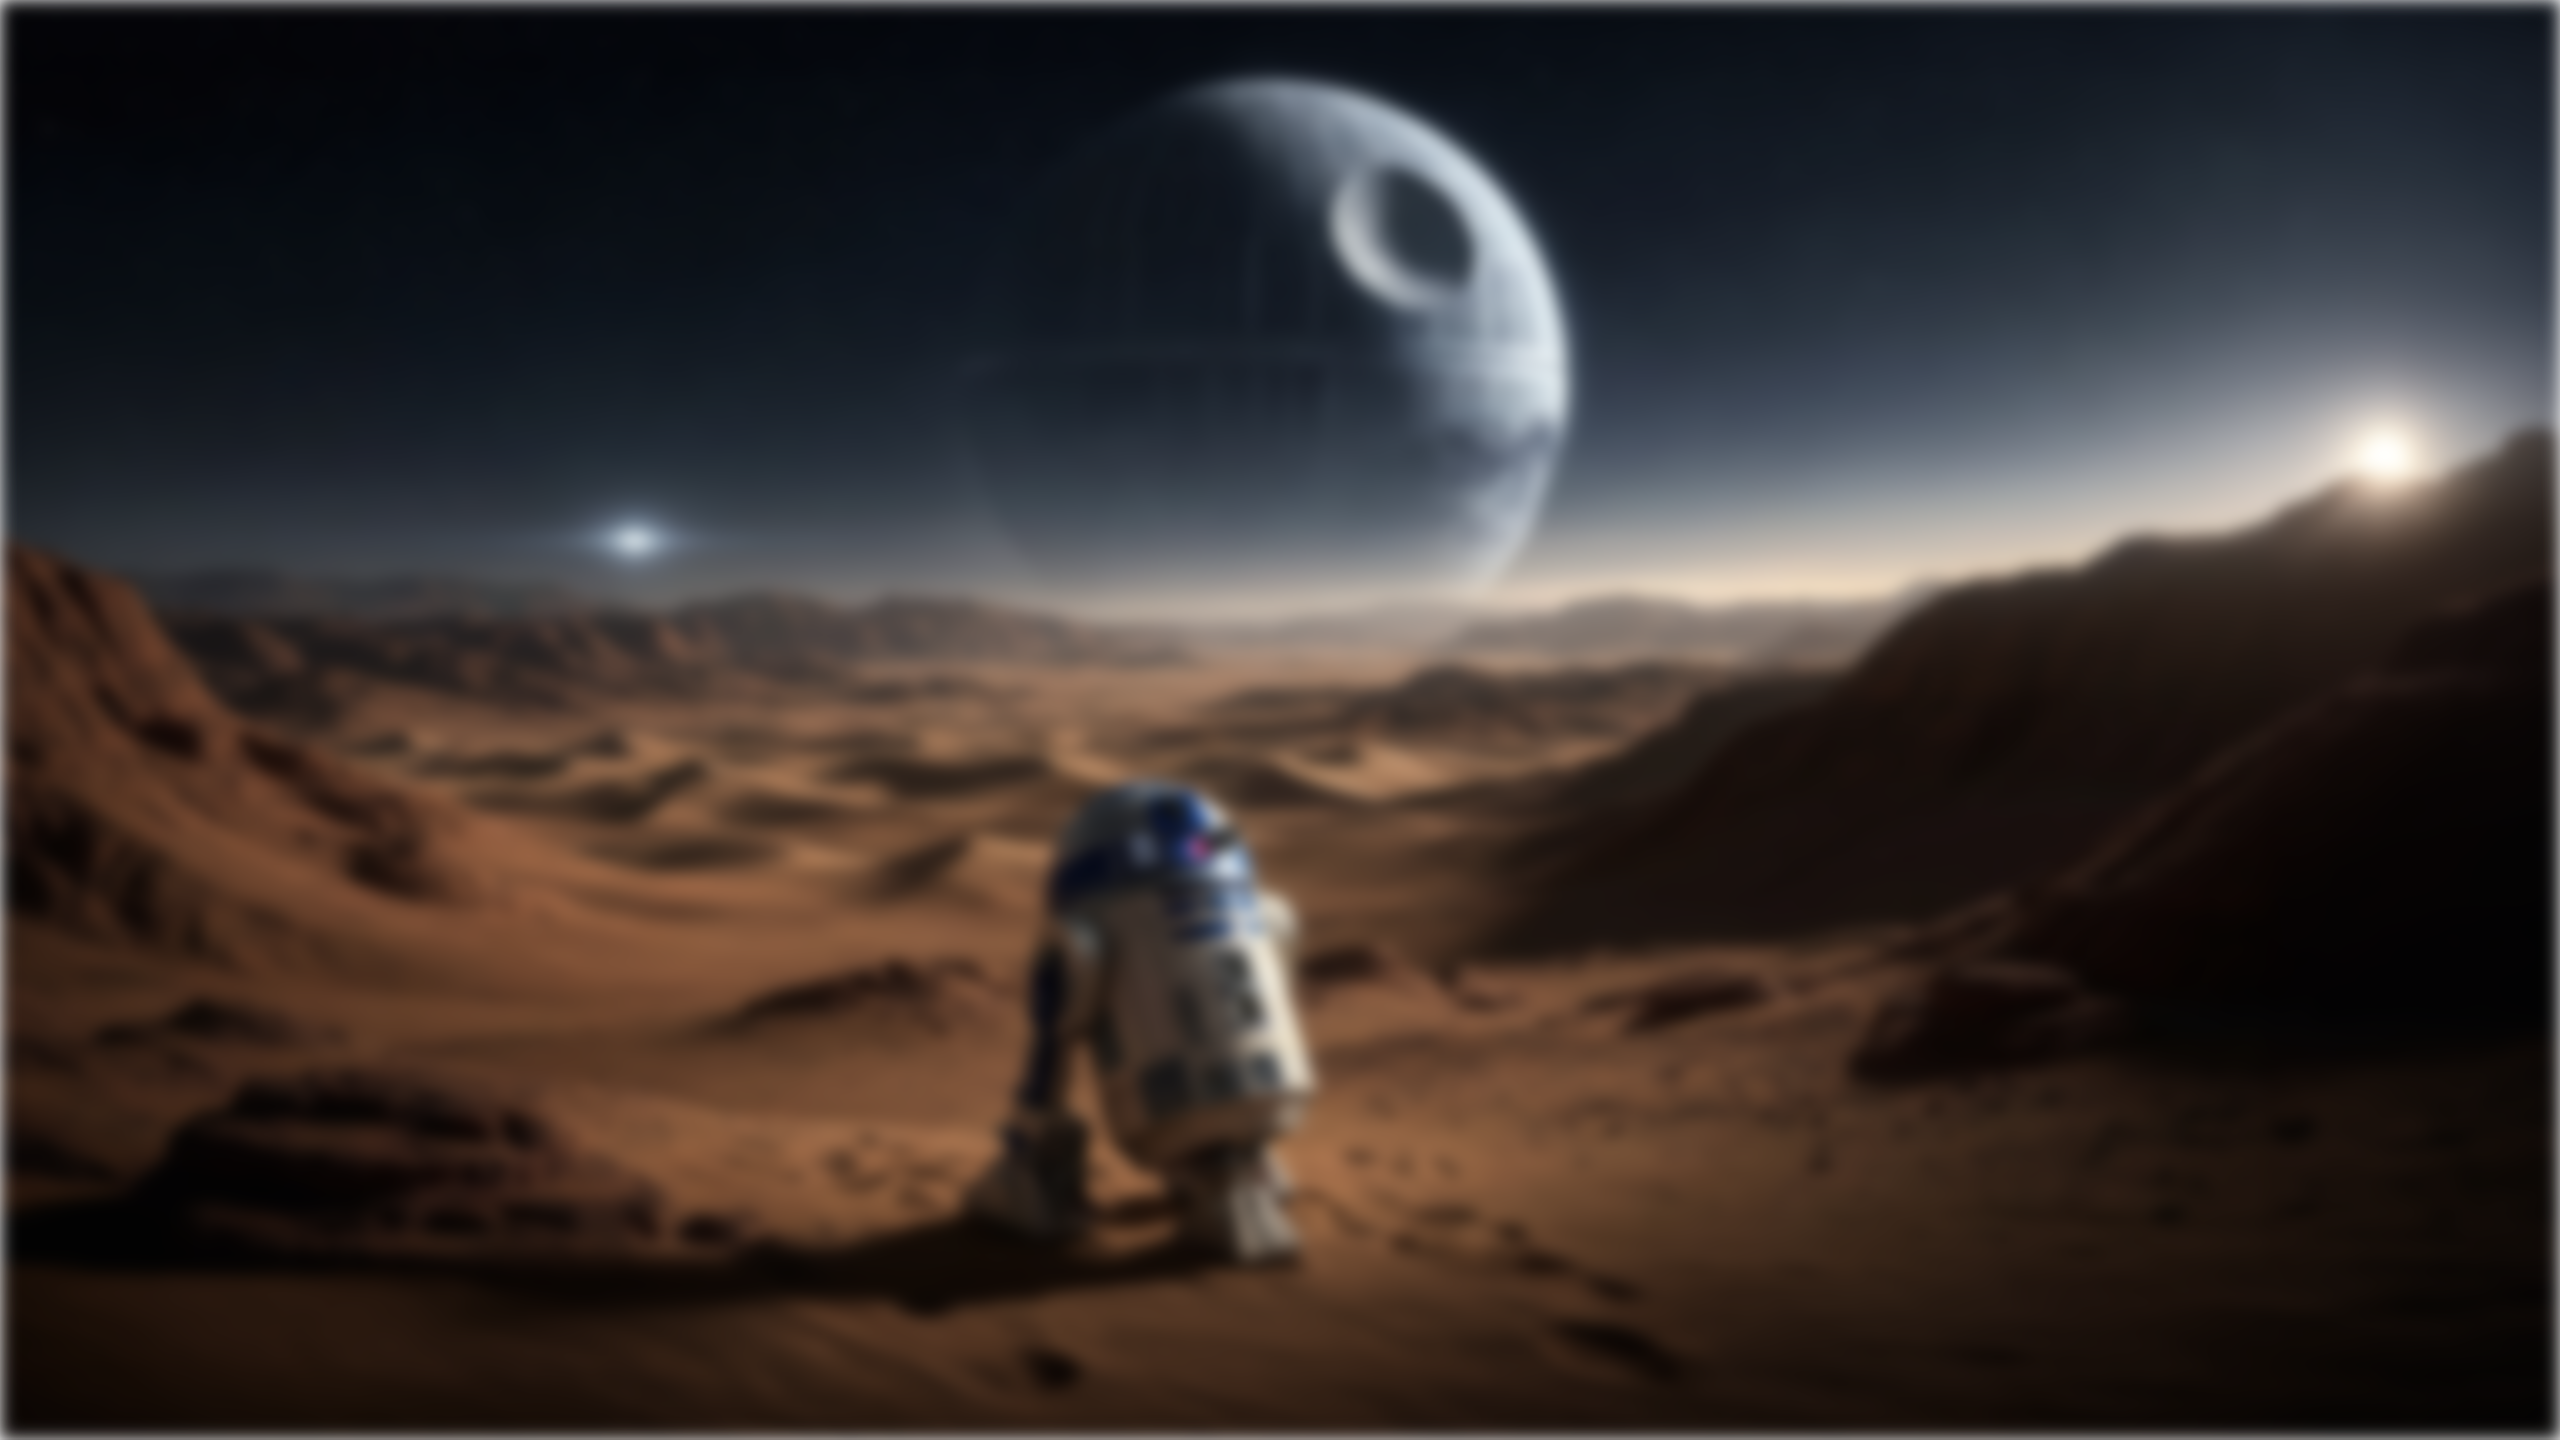
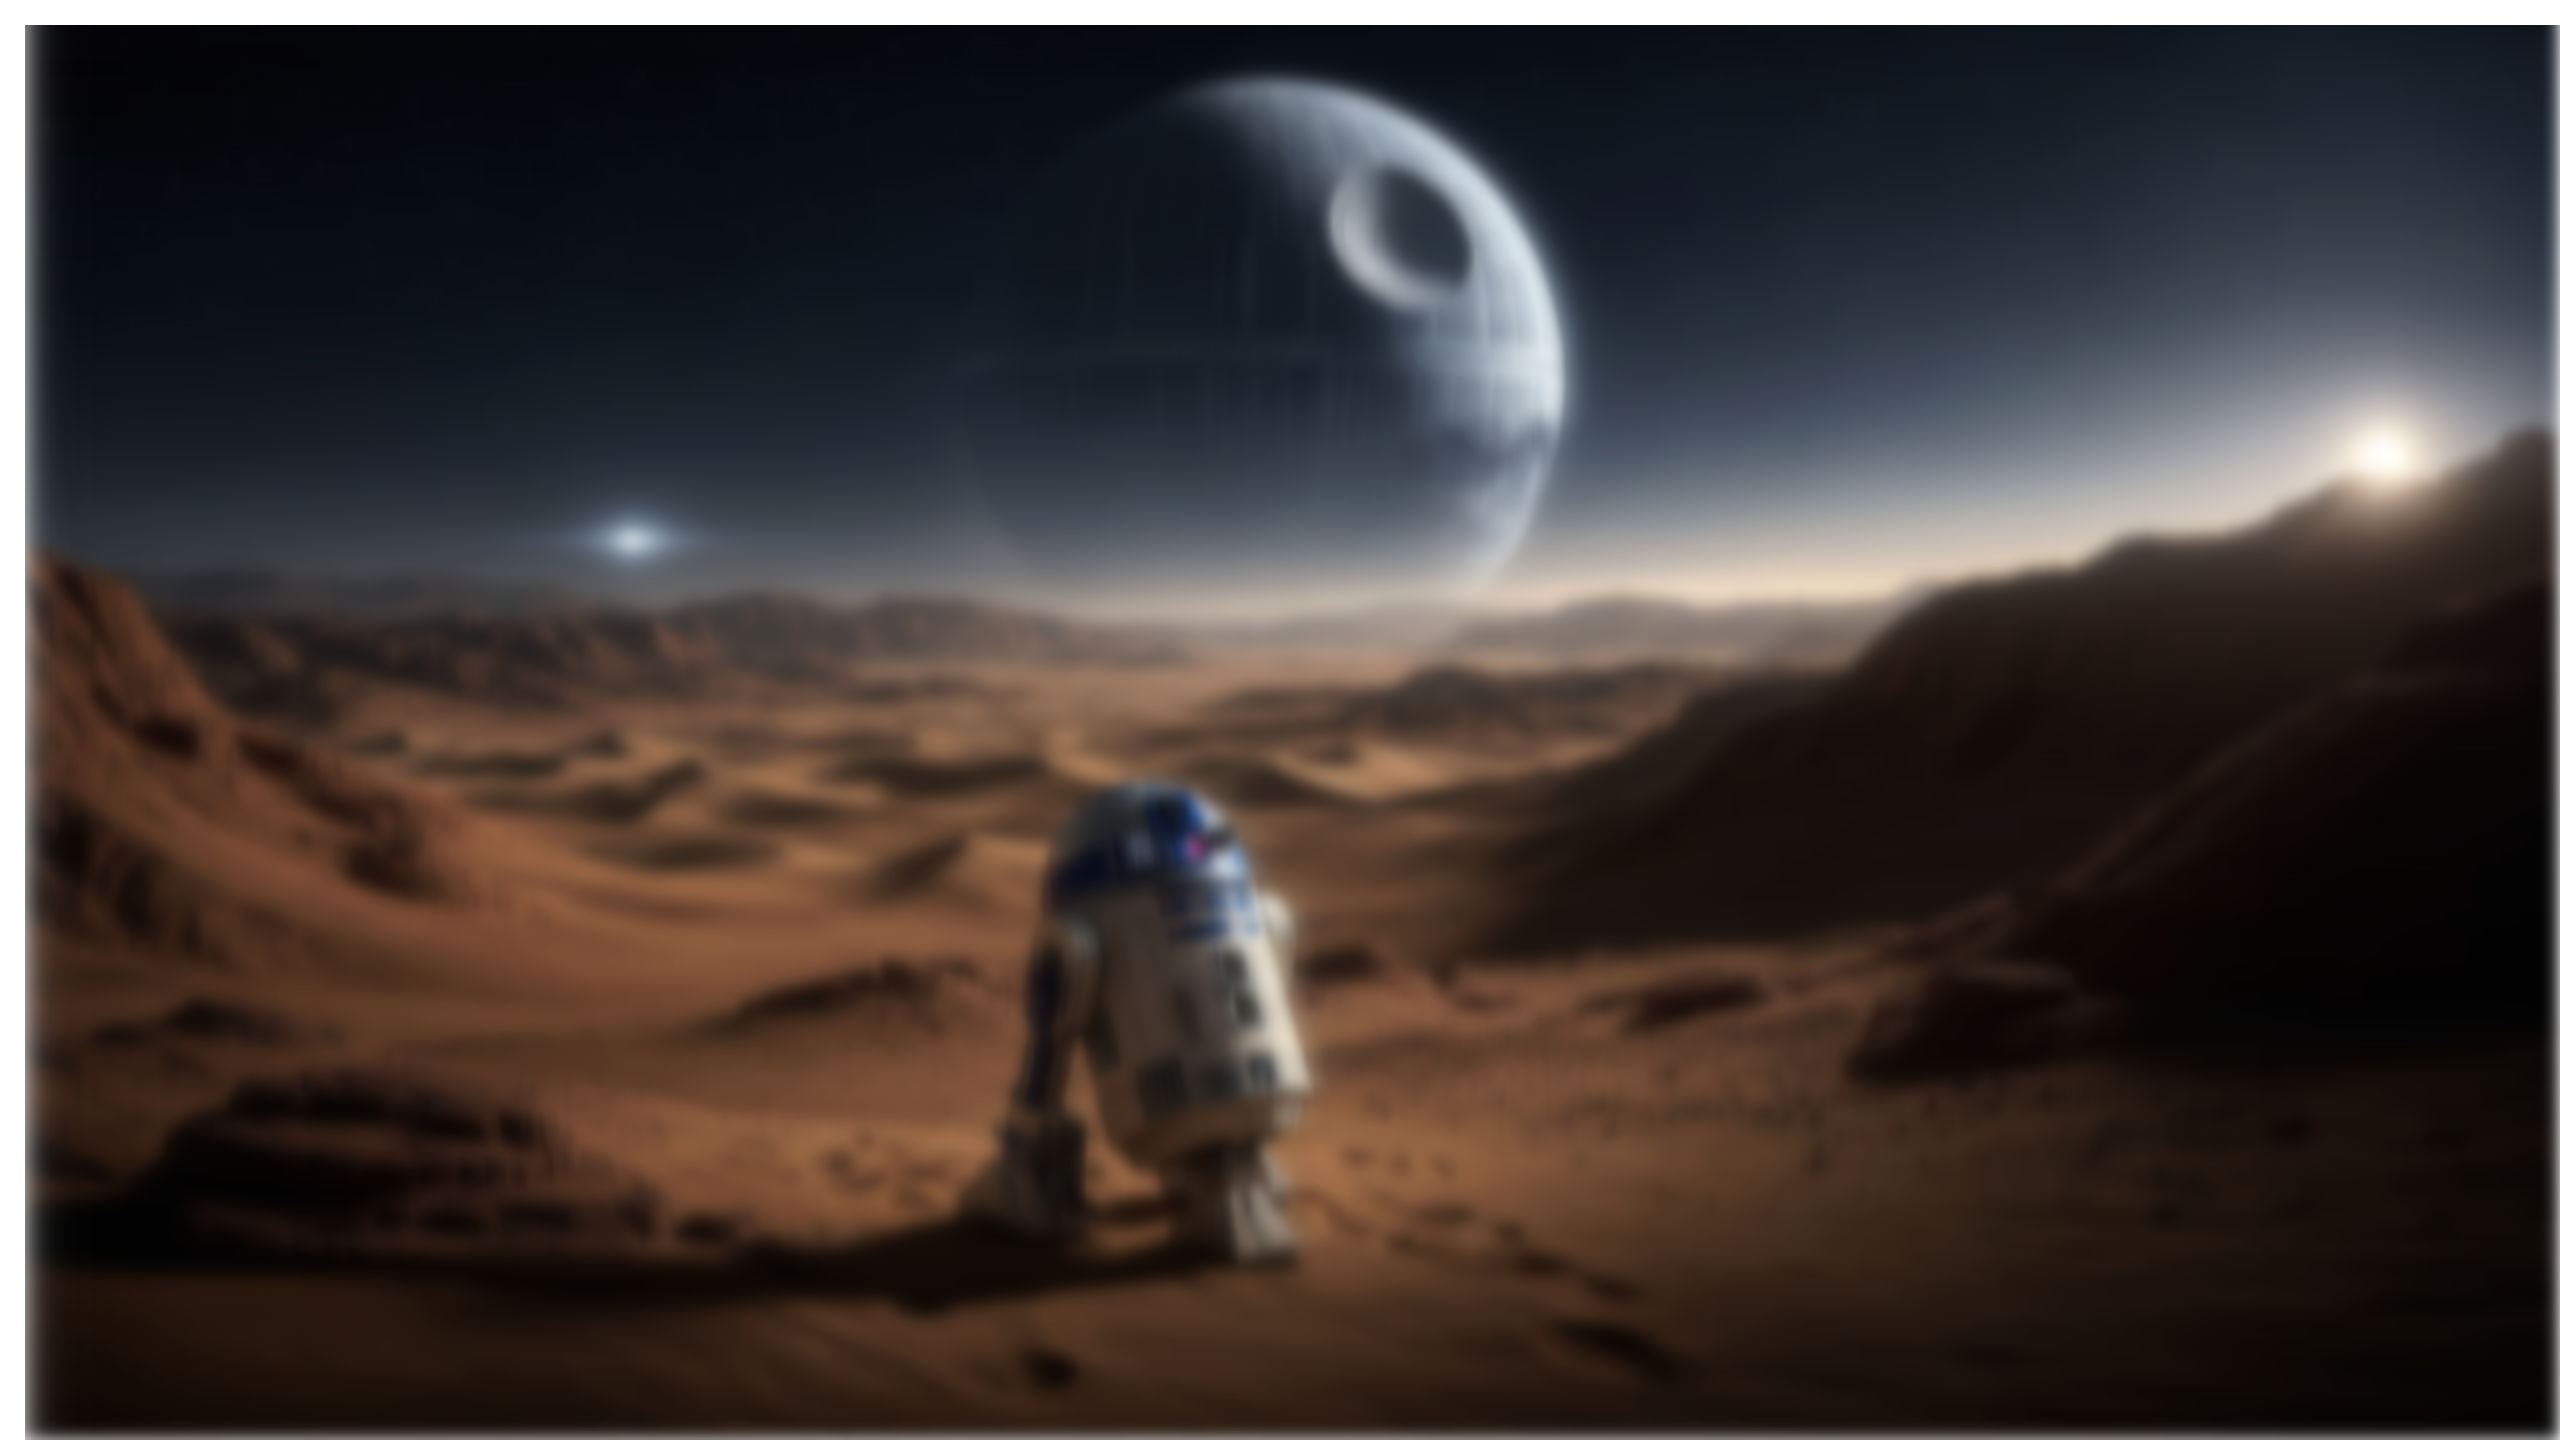
did 1D blur.

Changed region(s): [[0.0, 0.0, 1.0, 1.0]]

diff --git a/transforms/GaussianBlur1D.go b/transforms/GaussianBlur1D.go
@@ -1,0 +1,113 @@
+package transforms
+
+import (
+	"math"
+)
+
+func GaussianBlur1D(arr [][]Pixel, kernel_size int) [][]Pixel {
+	newarr := blur(arr, kernel_size)
+
+	return newarr
+}
+
+func gaussianFunction1D(x float64, sigma float64) float64 {
+	result := 1 / math.Sqrt(2*math.Pi*sigma*sigma)
+	exponent := -(x * x) / (2 * sigma * sigma)
+	result *= math.Exp(exponent)
+
+	return result
+}
+
+func gausKernel1D(kernel_size int) []float64 {
+	if kernel_size%2 == 0 || kernel_size < 1 {
+		panic("Enter valid kernel_size")
+	}
+
+	sigma := float64(kernel_size) / 6
+	radius := kernel_size / 2
+	kernel := make([]float64, kernel_size)
+
+	sum := float64(0)
+	for i := range kernel_size {
+		kernel[i] = gaussianFunction1D(float64(i-radius), sigma)
+		sum += kernel[i]
+	}
+
+	for i := range kernel_size {
+		kernel[i] /= sum
+	}
+
+	return kernel
+}
+
+func blur(arr [][]Pixel, kernel_size int) [][]Pixel {
+	kernel := gausKernel1D(kernel_size)
+	radius := kernel_size / 2
+
+	result := make([][]Pixel, len(arr))
+
+	for i := range len(arr) {
+		result[i] = make([]Pixel, len(arr[i]))
+	}
+
+	// vertical pass
+	for i := range len(arr) {
+		for j := range len(arr[i]) {
+			var r, g, b, a float64 = 0, 0, 0, 0
+			for k := -radius; k <= radius; k++ {
+				if i+k < 0 || i+k > len(arr)-1 {
+					break
+				}
+				pix := arr[i+k][j]
+
+				weight := kernel[k+radius]
+
+				rc, rg, rb, ra := pix.R, pix.G, pix.B, pix.A
+
+				r += (float64(rc) * weight)
+				g += (float64(rg) * weight)
+				b += (float64(rb) * weight)
+				a += (float64(ra) * weight)
+			}
+
+			result[i][j] = Pixel{
+				R:         uint8(r),
+				G:         uint8(g),
+				B:         uint8(b),
+				A:         uint8(a),
+				Character: arr[i][j].Character,
+			}
+
+			// fmt.Printf("New val: %v %v %v %v\n", uint8(r), uint8(g), uint8(b), uint8(a))
+		}
+	}
+
+	// horizontal pass
+	for i := range len(result) {
+		for j := range len(result[i]) {
+			var r, g, b, a float64 = 0, 0, 0, 0
+			for k := -radius; k <= radius; k++ {
+				if j+k < 0 || j+k > len(result[i])-1 {
+					break
+				}
+				pix := result[i][j+k]
+
+				rc, rg, rb, ra := pix.R, pix.G, pix.B, pix.A
+
+				r += (float64(rc) * kernel[k+radius])
+				g += (float64(rg) * kernel[k+radius])
+				b += (float64(rb) * kernel[k+radius])
+				a += (float64(ra) * kernel[k+radius])
+			}
+
+			result[i][j].R = uint8(r)
+			result[i][j].G = uint8(g)
+			result[i][j].B = uint8(b)
+			result[i][j].A = uint8(a)
+
+			// fmt.Printf("New val: %v %v %v %v\n", uint8(r), uint8(g), uint8(b), uint8(a))
+		}
+	}
+
+	return result
+}

diff --git a/main.go b/main.go
@@ -36,6 +36,8 @@ func main() {
 	LogOut(fmt.Sprintf("LOGGING >> Took %s to open image", time.Since(start)))
 	intermediate := time.Now()
 
+	operations := time.Now()
+
 	width := bounds.Dx()
 	height := bounds.Dy()
 
@@ -55,16 +57,17 @@ func main() {
 	LogOut(fmt.Sprintf("LOGGING >> Took %s to make and propagate pixel info", time.Since(intermediate)))
 	intermediate = time.Now()
 
-	GetRunes(arr)
-	arr = transforms.GaussianBlur(arr, 51)
+	// GetRunes(arr)
+	arr = transforms.GaussianBlur1D(arr, 51)
 
 	// for i := range len(arr) {
 	// 	for j := range len(arr[0]) {
-	// 		r, g, b, a := arr[i][j].Color.RGBA()
-	// 		fmt.Printf("(%v, %v, %v, %v) ", r>>8, g>>8, b>>8, a>>8)
+	// 		cur := arr[i][j]
+	// 		fmt.Printf("(%v, %v, %v, %v) ", cur.R, cur.G, cur.B, cur.A)
 	// 	}
 	// 	fmt.Println()
 	// }
+
 	LogOut(fmt.Sprintf("LOGGING >> CHARACTER TRANSFORMATIONS DONE: %s", time.Since(intermediate)))
 	intermediate = time.Now()
 
@@ -87,11 +90,14 @@ func main() {
 	LogOut(fmt.Sprintf("LOGGING >> Took %s to draw pixels in buffer", time.Since(intermediate)))
 	intermediate = time.Now()
 
+	op_end := time.Since(operations)
+
 	outFile, err := os.Create("out.png")
 	if err != nil {
 		log.Println(err)
 		os.Exit(1)
 	}
+
 	defer outFile.Close()
 
 	err = png.Encode(outFile, newimg)
@@ -104,7 +110,9 @@ func main() {
 	LogOut(fmt.Sprintf("LOGGING >> Time to encode output image: %s", time.Since(intermediate)))
 
 	LogOut(fmt.Sprintf("LOGGING >> Total execution time: %s", time.Since(start)))
+	LogOut(fmt.Sprintf("LOGGING >> Took %s for non-(encode/decode) operations", op_end))
 	fmt.Println("Created new image")
+	intermediate = time.Now()
 }
 
 // *****************

diff --git a/transforms/GaussianBlur2D.go b/transforms/GaussianBlur2D.go
@@ -8,23 +8,14 @@ import (
 	"math"
 )
 
-func xDoG(img [][]Pixel, threshold float64, kernel_size int) [][]Pixel {
-	// blur twice
-	// subtract w/ threshold
-	// return image
-	// DONE!
-
-	return nil
-}
-
 // Creates a Gaussian Blur effect with a kernel_size x kernel_size convolution matrix
-func GaussianBlur(img [][]Pixel, kernel_size int) [][]Pixel {
+func GaussianBlur2D(img [][]Pixel, kernel_size int) [][]Pixel {
 	if kernel_size%2 != 1 {
 		panic("Enter odd number for kernel_size")
 	}
-	kernel := createKernel(kernel_size)
+	kernel := createKernel2D(kernel_size)
 
-	blur1 := blur(img, kernel)
+	blur1 := blur2D(img, kernel)
 
 	fmt.Printf("(%v, %v) \n", len(blur1), len(blur1[0]))
 	// for i := range len(blur1) {
@@ -38,7 +29,7 @@ func GaussianBlur(img [][]Pixel, kernel_size int) [][]Pixel {
 	return blur1
 }
 
-func createKernel(matrix_size int) [][]float64 {
+func createKernel2D(matrix_size int) [][]float64 {
 	kernel := make([][]float64, matrix_size)
 
 	for i := range matrix_size {
@@ -80,7 +71,7 @@ func gaussianFunction2D(x float64, y float64, sigma float64) float64 {
 	return result
 }
 
-func blur(img [][]Pixel, kernel [][]float64) [][]Pixel {
+func blur2D(img [][]Pixel, kernel [][]float64) [][]Pixel {
 	img_width := len(img[0])
 	img_height := len(img)
 
@@ -135,8 +126,4 @@ func blur(img [][]Pixel, kernel [][]float64) [][]Pixel {
 	}
 
 	return blurred
-}
-
-func subtract(blur1 [][]Pixel, blur2 [][]Pixel, threshold int) [][]Pixel {
-	return nil
 }

diff --git a/transforms/xDoG.go b/transforms/xDoG.go
@@ -1,0 +1,10 @@
+package transforms
+
+func xDoG(img [][]Pixel, threshold float64, kernel_size int) [][]Pixel {
+	// blur twice
+	// subtract w/ threshold
+	// return image
+	// DONE!
+
+	return nil
+}
